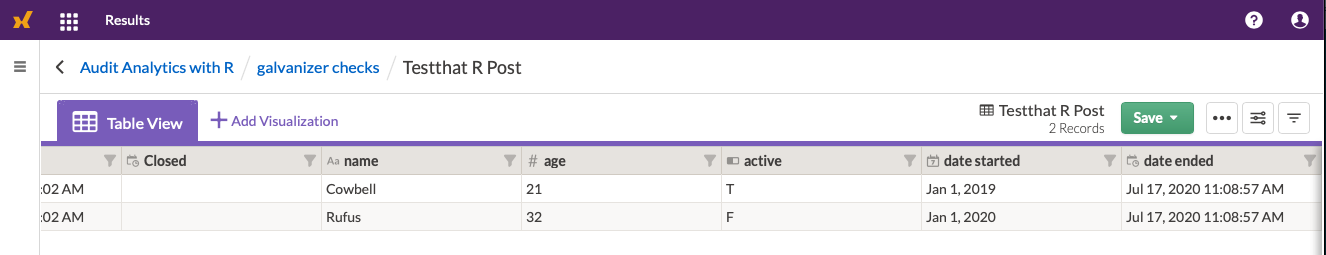
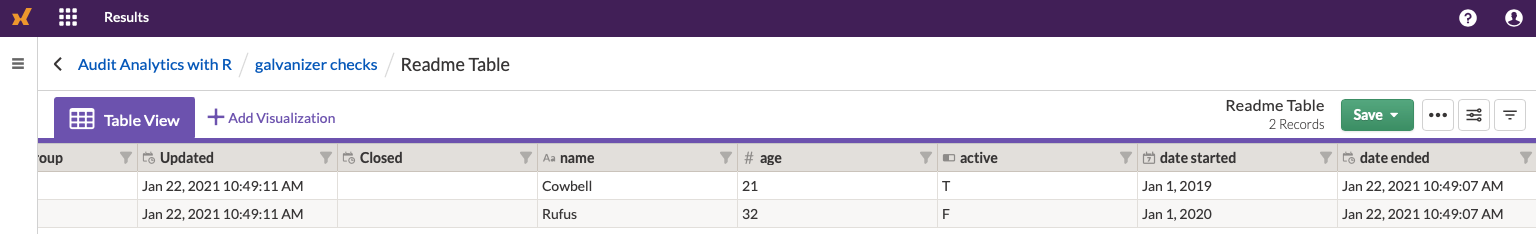
Update readme content

diff --git a/README.md b/README.md
@@ -4,7 +4,6 @@
 # galvanizer
 
 <!-- badges: start -->
-
 <!-- badges: end -->
 
 galvanizer is a package designed to interact to Highbond’s API
@@ -28,9 +27,9 @@ devtools::install_github("jonlinca/galvanizer")
 Before using the API, you will need some core information to access your
 Highbond instance. They are:
 
-  - Highbond API token
-  - Organization number
-  - Data Center location
+-   Highbond API token
+-   Organization number
+-   Data Center location
 
 To generate a Highbond API token from your Highbond instance by
 referencing the [help
@@ -91,14 +90,14 @@ download <- get_results_records(highbond_auth, highbond_table)
 
 head(download$content$data)
 #>   metadata.priority metadata.status metadata.publish_date metadata.publisher
-#> 1               Low             New   2020-11-02 11:45:37           Jon Test
-#> 2               Low             New   2020-11-02 11:45:37           Jon Test
+#> 1               Low             New   2021-01-22 10:48:32           Jon Test
+#> 2               Low             New   2021-01-22 10:48:32           Jon Test
 #>   metadata.assignee metadata.group metadata.updated_at metadata.closed_at
-#> 1              <NA>           <NA> 2020-11-02 11:45:37               <NA>
-#> 2              <NA>           <NA> 2020-11-02 11:45:37               <NA>
+#> 1              <NA>           <NA> 2021-01-22 10:48:32               <NA>
+#> 2              <NA>           <NA> 2021-01-22 10:48:32               <NA>
 #>      name age active date_started          date_ended extras.record_id
-#> 1 Cowbell  21   TRUE   2019-01-01 2020-11-02 11:45:05     1.094678e+15
-#> 2   Rufus  32  FALSE   2020-01-01 2020-11-02 11:45:05     1.094678e+15
+#> 1 Cowbell  21   TRUE   2019-01-01 2021-01-22 10:48:28     1.162829e+15
+#> 2   Rufus  32  FALSE   2020-01-01 2021-01-22 10:48:28     1.162829e+15
 #>   extras.collection extras.results_table
 #> 1 galvanizer checks         Readme Table
 #> 2 galvanizer checks         Readme Table
@@ -112,17 +111,17 @@ from. There are options to download all or just one set of information,
 depending on the pane chosen.
 
 ``` r
-projects <- get_project(highbond_auth)
+projects <- get_projects(highbond_auth)
 head(projects)
 #> # A tibble: 6 x 26
 #>   id    type  name  state status created_at updated_at description background
 #>   <chr> <chr> <chr> <chr> <chr>  <chr>      <chr>      <chr>       <chr>     
-#> 1 1213… proj… Payr… acti… active 2020-08-1… 2020-08-2… "Project t… <NA>      
-#> 2 1213… proj… IT G… acti… active 2020-08-1… 2020-08-1… ""          <NA>      
-#> 3 1213… proj… Sarb… acti… active 2020-08-1… 2020-08-2… ""          <NA>      
-#> 4 1213… proj… Sale… acti… active 2020-08-1… 2020-08-1… "Project t… <NA>      
-#> 5 1213… proj… SOC … acti… active 2020-08-1… 2020-08-1… "Project t… <NA>      
-#> 6 1213… proj… Purc… acti… active 2020-08-1… 2020-08-1… "The purch… <NA>      
+#> 1 1213… proj… Payr… acti… active 2020-08-1… 2020-11-1… "Project t… ""        
+#> 2 1213… proj… IT G… acti… active 2020-08-1… 2020-08-1… ""           <NA>     
+#> 3 1213… proj… Sarb… acti… active 2020-08-1… 2020-08-2… ""           <NA>     
+#> 4 1213… proj… Sale… acti… active 2020-08-1… 2020-08-1… "Project t…  <NA>     
+#> 5 1213… proj… SOC … acti… active 2020-08-1… 2020-08-1… "Project t…  <NA>     
+#> 6 1213… proj… Purc… acti… active 2020-08-1… 2020-11-1… "The purch… ""        
 #> # … with 17 more variables: budget <dbl>, position <dbl>, certification <lgl>,
 #> #   control_performance <lgl>, risk_assurance <lgl>, management_response <chr>,
 #> #   max_sample_size <dbl>, number_of_testing_rounds <dbl>, opinion <chr>,
